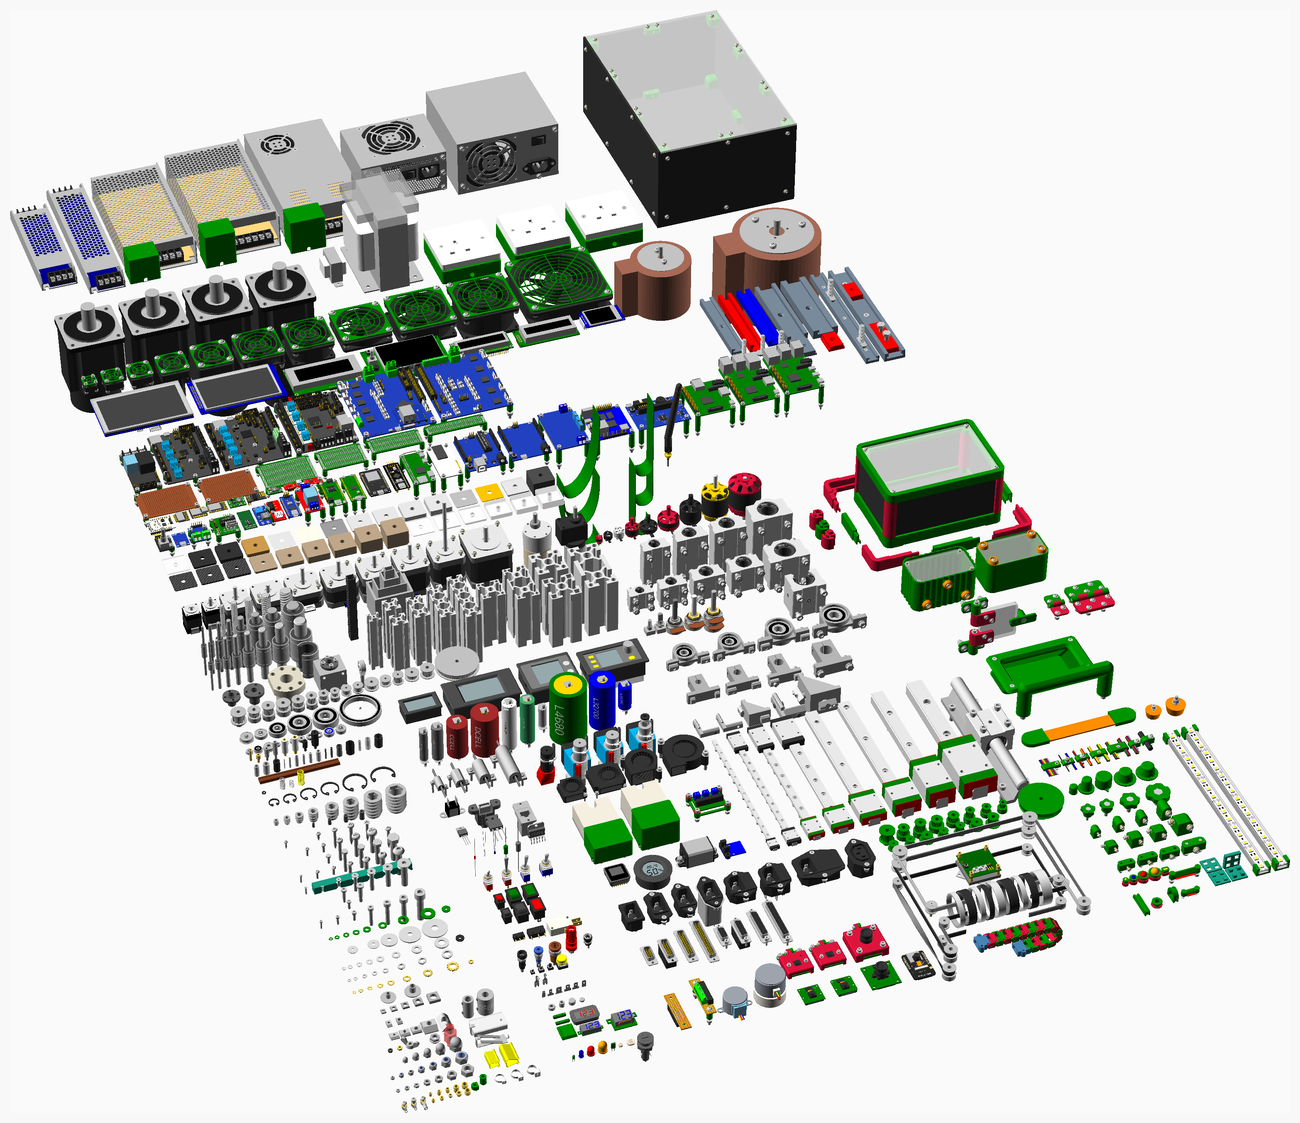
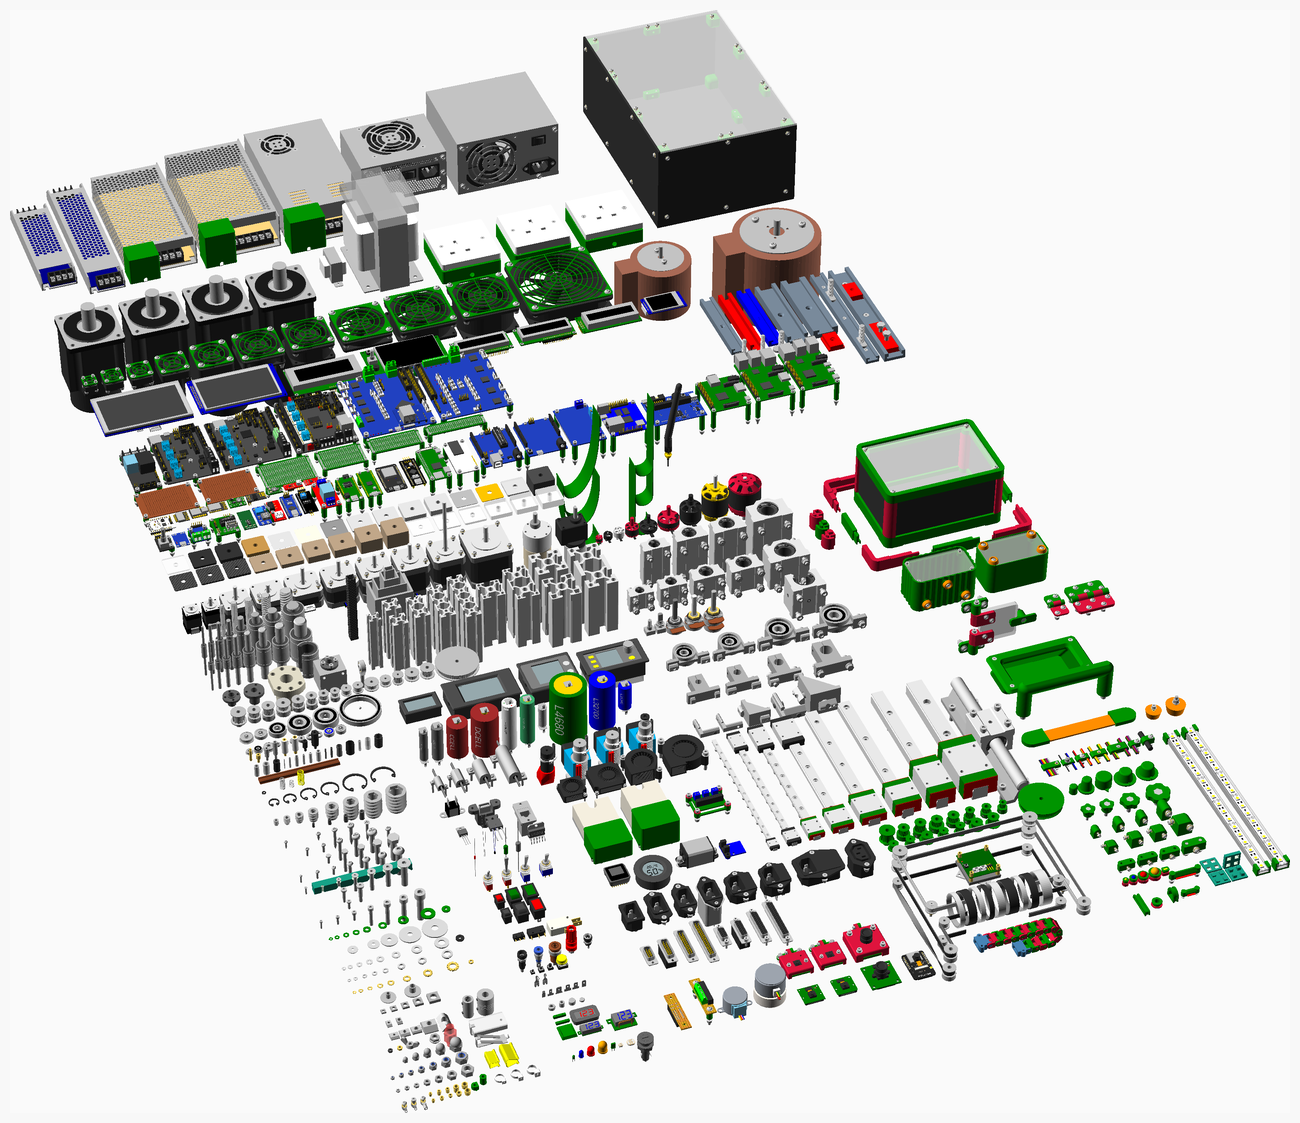
Included pcbs.scad in displays.scad. Moved I2C_LCD_Backpack from tiny_pcbs to pcbs to prevent connector clash. Updated images and readme.

Changed region(s): [[0.2154, 0.2805, 0.6462, 0.4675], [0.4, 0.2493, 0.5231, 0.3117]]

diff --git a/readme.md b/readme.md
@@ -1106,7 +1106,7 @@ LCD displays.
 |   1 | `display(BigTreeTech_TFT35v3_0)` |  BigTreeTech TFT35 v3.0 |
 |   1 | `display(HDMI5)` |  HDMI display 5" |
 |   1 | `display(TFT128x160)` |  LCD TFT ST7735 display 128x160 |
-|   1 | `display(LCD1602A)` |  LCD display 1602A |
+|   2 | `display(LCD1602A)` |  LCD display 1602A |
 |   1 | `display(LCD2004A)` |  LCD display 2004A |
 |   1 | `display(LCDS7282B)` |  LCD display S-7282B |
 |   1 | `display(SSD1963_4p3)` |  LCD display SSD1963 4.3" |
@@ -3000,6 +3000,7 @@ PCBs and perfboard with optional components. The shape can be a rectangle with o
 |   1 | `pcb(EnviroPlus)` |  Enviro+ |
 |   1 | `pcb(ExtruderPCB)` |  Extruder connection PCB - not shown |
 |   1 | `pcb(HW803_1WAY_RELAY)` |  HW-803 5V 1 way relay module |
+|   1 | `pcb(I2C_LCD_Backpack)` |  I2C / SPI character LCD backpack |
 |   1 | `pcb(KY_040)` |  KY-040 rotart encoder breakout |
 |   1 | `pcb(Keyes5p1)` |  Keyes5.1 Arduino Uno expansion board - not shown |
 |   1 | `pcb(L9110S)` |  L9110S 2-Channel motor driver module |
@@ -3038,11 +3039,12 @@ PCBs and perfboard with optional components. The shape can be a rectangle with o
 |   4 | `screw(M2_cap_screw, 25)` |  Screw M2 cap x 25mm |
 |   2 | `screw(M2p5_cap_screw, 20)` |  Screw M2.5 cap x 20mm |
 |   8 | `screw(M2p5_cap_screw, 30)` |  Screw M2.5 cap x 30mm |
-|   8 | `screw(M2p5_cap_screw, 35)` |  Screw M2.5 cap x 35mm |
-|   4 | `screw(M2p5_cap_screw, 40)` |  Screw M2.5 cap x 40mm |
+|   4 | `screw(M2p5_cap_screw, 35)` |  Screw M2.5 cap x 35mm |
+|   8 | `screw(M2p5_cap_screw, 40)` |  Screw M2.5 cap x 40mm |
 |   4 | `screw(M2p5_dome_screw, 25)` |  Screw M2.5 dome x 25mm |
 |   4 | `screw(M2p5_pan_screw, 20)` |  Screw M2.5 pan x 20mm |
-|   8 | `screw(M2p5_pan_screw, 30)` |  Screw M2.5 pan x 30mm |
+|   4 | `screw(M2p5_pan_screw, 30)` |  Screw M2.5 pan x 30mm |
+|   4 | `screw(M2p5_pan_screw, 35)` |  Screw M2.5 pan x 35mm |
 |  19 | `screw(M3_cap_screw, 16)` |  Screw M3 cap x 16mm |
 |  13 | `screw(M3_cap_screw, 20)` |  Screw M3 cap x 20mm |
 |   5 | `screw(M3_cap_screw, 25)` |  Screw M3 cap x 25mm |
@@ -3067,24 +3069,25 @@ PCBs and perfboard with optional components. The shape can be a rectangle with o
 | Qty | Filename |
 | ---:|:--- |
 |   4 | pcb_spacer20100.stl |
-|   4 | pcb_spacer20150.stl |
+|   4 | pcb_spacer20160.stl |
 |   4 | pcb_spacer2070.stl |
 |   4 | pcb_spacer2080.stl |
 |   4 | pcb_spacer2090.stl |
 |   2 | pcb_spacer25110.stl |
-|   4 | pcb_spacer25140.stl |
-|   4 | pcb_spacer25180.stl |
+|   4 | pcb_spacer25150.stl |
 |   4 | pcb_spacer25190.stl |
-|   4 | pcb_spacer25200_2.stl |
+|   4 | pcb_spacer25200.stl |
 |   4 | pcb_spacer25210_2.stl |
-|   4 | pcb_spacer25250.stl |
+|   4 | pcb_spacer25220_2.stl |
 |   4 | pcb_spacer25260.stl |
 |   4 | pcb_spacer25270.stl |
+|   4 | pcb_spacer25280.stl |
 |   4 | pcb_spacer2580.stl |
-|   5 | pcb_spacer30130.stl |
-|   4 | pcb_spacer30220.stl |
+|   1 | pcb_spacer30130.stl |
+|   4 | pcb_spacer30140.stl |
 |   4 | pcb_spacer30230.stl |
-|   3 | pcb_spacer30240.stl |
+|   4 | pcb_spacer30240.stl |
+|   3 | pcb_spacer30250.stl |
 |  10 | pcb_spacer3050.stl |
 |   9 | pcb_spacer3060.stl |
 |   9 | pcb_spacer3070.stl |
